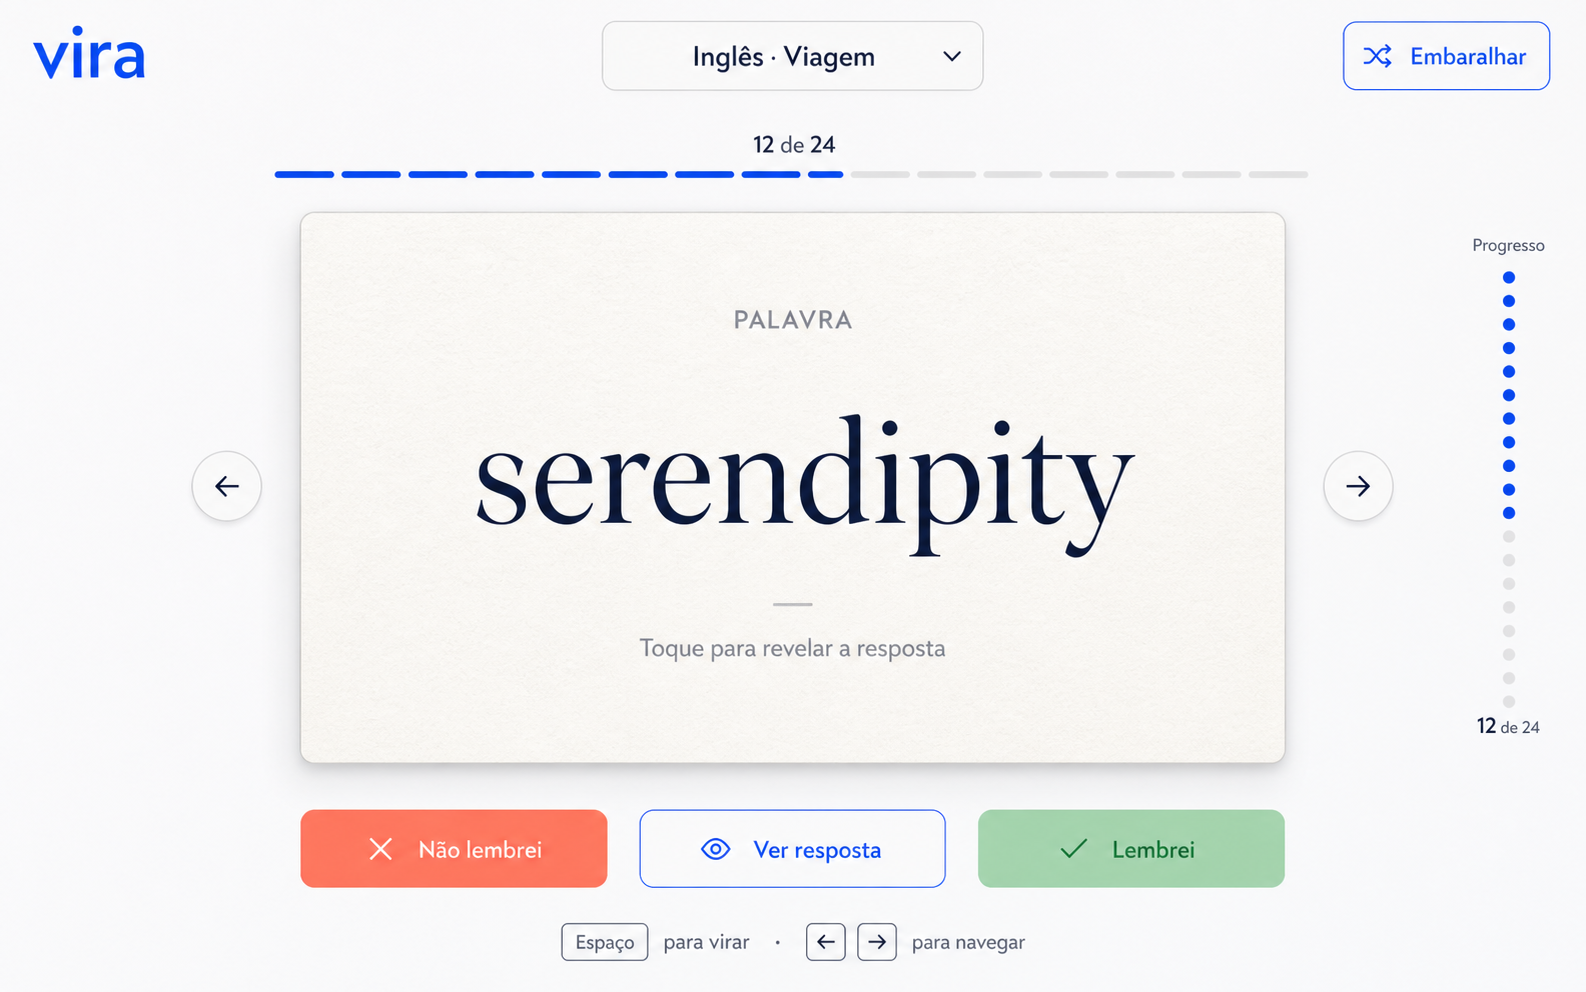
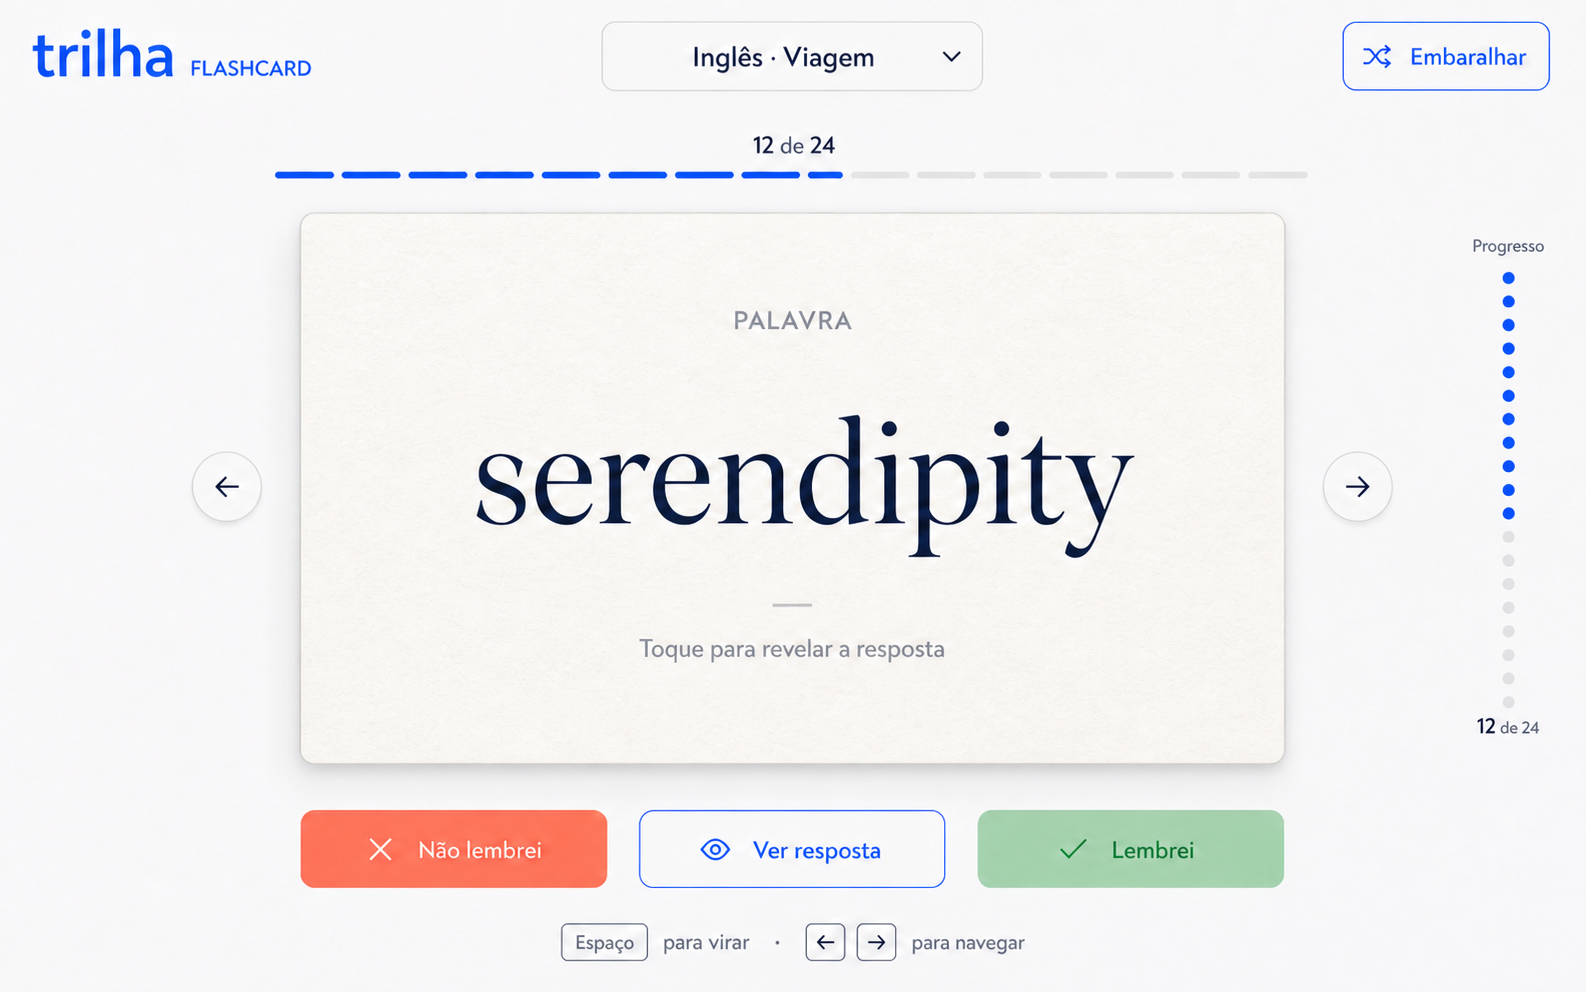
Renomeia projeto para Trilha Flashcard
Atualiza a marca, os textos, o armazenamento local e as imagens de referência.

diff --git a/index.html b/index.html
@@ -6,9 +6,9 @@
     <meta name="theme-color" content="#f7f8fb" />
     <meta
       name="description"
-      content="Rumo Concursos — flashcards para concursos públicos."
+      content="Trilha Flashcard — estudos e revisão para concursos públicos."
     />
-    <title>Rumo Concursos — Flashcards</title>
+    <title>Trilha Flashcard — Concursos Públicos</title>
     <link rel="preconnect" href="https://fonts.googleapis.com" />
     <link rel="preconnect" href="https://fonts.gstatic.com" crossorigin />
     <link
@@ -21,7 +21,10 @@
     <main class="app-shell">
       <header class="topbar" aria-label="Barra principal">
         <div class="brand-lockup">
-          <a class="brand" href="#" aria-label="Rumo Concursos — início">rumo</a>
+          <a class="brand" href="#" aria-label="Trilha Flashcard — início">
+            <span class="brand-name">trilha</span>
+            <span class="brand-kind">flashcard</span>
+          </a>
           <span class="brand-context">TRT4 · AJAJ</span>
         </div>
 

diff --git a/app.js b/app.js
@@ -20,7 +20,7 @@ const elements = {
   toast: document.querySelector("#toast"),
 };
 
-const savedState = JSON.parse(localStorage.getItem("rumo-concursos-state") || "null");
+const savedState = JSON.parse(localStorage.getItem("trilha-flashcard-state") || "null");
 const state = {
   deckId: savedState?.deckId && decks.some((deck) => deck.id === savedState.deckId) ? savedState.deckId : decks[0].id,
   index: Number.isInteger(savedState?.index) ? savedState.index : 0,
@@ -40,7 +40,7 @@ function currentCard() {
 }
 
 function saveProgress() {
-  localStorage.setItem("rumo-concursos-state", JSON.stringify({ deckId: state.deckId, index: state.index }));
+  localStorage.setItem("trilha-flashcard-state", JSON.stringify({ deckId: state.deckId, index: state.index }));
 }
 
 function renderDeckOptions() {

diff --git a/styles.css b/styles.css
@@ -74,12 +74,25 @@ button {
 
 .brand {
   justify-self: start;
+  display: inline-flex;
+  align-items: baseline;
+  gap: 0.42rem;
   color: var(--blue);
+  text-decoration: none;
+}
+
+.brand-name {
   font-size: clamp(2.7rem, 4vw, 4rem);
   font-weight: 700;
   line-height: 1;
   letter-spacing: -0.08em;
-  text-decoration: none;
+}
+
+.brand-kind {
+  font-size: clamp(0.68rem, 1vw, 0.9rem);
+  font-weight: 700;
+  letter-spacing: 0.08em;
+  text-transform: uppercase;
 }
 
 .brand-lockup {

diff --git a/README.md b/README.md
@@ -1,4 +1,4 @@
-# Rumo Concursos — Flashcards para concursos públicos
+# Trilha Flashcard — Estudos para concursos públicos
 
 Um leitor de flashcards local, responsivo e sem instalação, personalizado para o primeiro concurso TRT4 - Analista Judiciário, Área Judiciária. O app inclui:
 
